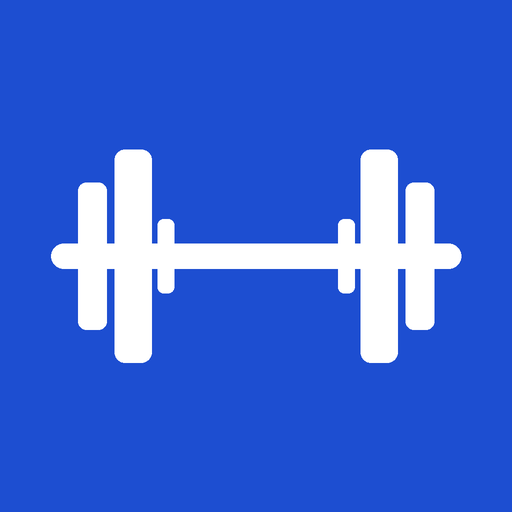
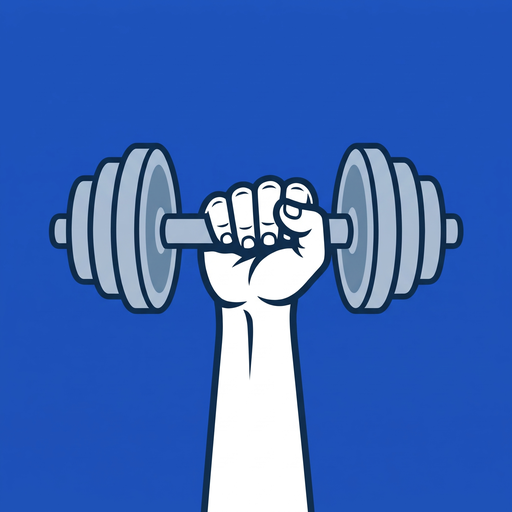
V54
Renaming app GymSmith
Changing icon

diff --git a/index.html b/index.html
@@ -3,7 +3,7 @@
 <head>
 <meta charset="utf-8">
 <meta name="viewport" content="width=device-width, initial-scale=1, viewport-fit=cover">
-<title>GymBook</title>
+<title>GymSmith</title>
 <script>try{var _t=localStorage.getItem('gymbook.theme');if(_t==='light'||_t==='dark')document.documentElement.setAttribute('data-theme',_t);}catch(e){}</script>
 <meta name="description" content="Log workouts, routines, calisthenics and progress. Works offline.">
 <meta name="robots" content="noindex, nofollow">
@@ -11,7 +11,7 @@
 <meta name="theme-color" content="#0E1115" media="(prefers-color-scheme: dark)">
 <meta name="apple-mobile-web-app-capable" content="yes">
 <meta name="mobile-web-app-capable" content="yes">
-<meta name="apple-mobile-web-app-title" content="GymBook">
+<meta name="apple-mobile-web-app-title" content="GymSmith">
 <meta name="apple-mobile-web-app-status-bar-style" content="default">
 <link rel="manifest" href="manifest.webmanifest">
 <link rel="icon" type="image/png" sizes="32x32" href="icons/favicon-32.png">
@@ -693,7 +693,7 @@ table.sess td{padding:8px 4px;border-bottom:1px solid var(--line);vertical-align
 <body>
 <div class="app">
   <header class="top">
-    <div class="brand">Gym<span>Book</span></div>
+    <div class="brand">Gym<span>Smith</span></div>
     <div class="top-r"><div class="sync" id="sync">Loading…</div><a class="gear" href="#settings" aria-label="Settings"><svg viewBox="0 0 24 24" fill="none" stroke="currentColor" stroke-width="2" stroke-linecap="round" stroke-linejoin="round" aria-hidden="true"><circle cx="12" cy="12" r="3"/><path d="M19.4 15a1.65 1.65 0 0 0 .33 1.82l.06.06a2 2 0 1 1-2.83 2.83l-.06-.06a1.65 1.65 0 0 0-1.82-.33 1.65 1.65 0 0 0-1 1.51V21a2 2 0 1 1-4 0v-.09A1.65 1.65 0 0 0 9 19.4a1.65 1.65 0 0 0-1.82.33l-.06.06a2 2 0 1 1-2.83-2.83l.06-.06A1.65 1.65 0 0 0 4.68 15a1.65 1.65 0 0 0-1.51-1H3a2 2 0 1 1 0-4h.09A1.65 1.65 0 0 0 4.6 9a1.65 1.65 0 0 0-.33-1.82l-.06-.06a2 2 0 1 1 2.83-2.83l.06.06A1.65 1.65 0 0 0 9 4.68a1.65 1.65 0 0 0 1-1.51V3a2 2 0 1 1 4 0v.09a1.65 1.65 0 0 0 1 1.51 1.65 1.65 0 0 0 1.82-.33l.06-.06a2 2 0 1 1 2.83 2.83l-.06.06A1.65 1.65 0 0 0 19.4 9a1.65 1.65 0 0 0 1.51 1H21a2 2 0 1 1 0 4h-.09a1.65 1.65 0 0 0-1.51 1z"/></svg></a></div>
   </header>
   <main id="view" class="stack"></main>
@@ -909,7 +909,7 @@ const HYPER_REFS=['vol','freq','fail','load'];
    Each session is done once a week, so weekly sets per target muscle stay roughly 10–20. */
 const PROGRAMS = [
  {id:'kot', cat:'Joints', title:'Knees Over Toes', days:3, weeks:'8–12 weeks', refs:['kotA1'],
-  blurb:'Strong, resilient knees and ankles from Knees Over Toes (ATG) exercises: backward walking, tibialis and soleus work, step-ups and full-range squats and split squats. The exercises come from the method; the session layout is GymBook\'s own.',
+  blurb:'Strong, resilient knees and ankles from Knees Over Toes (ATG) exercises: backward walking, tibialis and soleus work, step-ups and full-range squats and split squats. The exercises come from the method; the session layout is GymSmith\'s own.',
   progress:'Stay in a pain-free range: no worse than about 2–3 out of 10. Earn range before load: use more slant or support, or a raised front foot, until every rep reaches full depth, then lower the support and add reps. Only then add weight (dumbbell or vest). Keep the Jefferson curl very light and build up slowly. Regress Nordics with a band or a shorter range.',
   sessions:[
    {name:'A', rest:60, ex:[['backward-walk',1,10],['tib-raise',3,20],['soleus-raise',3,20],['patrick-step',3,15],['poliquin-step',3,10],['slant-squat',3,15],['couch-stretch',2,45]]},
@@ -1603,7 +1603,7 @@ function preBlock(sk){
 function fullDate(t){ const d=new Date(t); return `${d.getDate()} ${MON[d.getMonth()]} ${d.getFullYear()}`; }
 function sourcesBlock(keys, own){
   const list=(keys||[]).map(k=>REF[k]).filter(Boolean); if(!list.length) return '';
-  return `<details class="sources"><summary>Based on</summary><ul>${list.map(r=>`<li><a href="${esc(r.u)}" target="_blank" rel="noopener">${esc(r.t)}</a><span>${esc(r.n)}</span></li>`).join('')}</ul>${own?`<p>The order of stages follows these sources; the pass marks are GymBook's own, as the sources don't set any.</p>`:''}</details>`;
+  return `<details class="sources"><summary>Based on</summary><ul>${list.map(r=>`<li><a href="${esc(r.u)}" target="_blank" rel="noopener">${esc(r.t)}</a><span>${esc(r.n)}</span></li>`).join('')}</ul>${own?`<p>The order of stages follows these sources; the pass marks are GymSmith's own, as the sources don't set any.</p>`:''}</details>`;
 }
 function skillNeeds(sk){ const miss=new Set(); for(const st of sk.stages){ const ex=exById(st.key); if(ex) missing(ex).forEach(m=>miss.add(m)); } return [...miss]; }
 
@@ -2003,7 +2003,7 @@ function sheetClear(){
   const what=sheet.what||'history'; const age=backupAgeDays();
   return `<p class="muted" style="margin:0;font-size:14px">This can't be undone. Back up first if you might want any of it again.</p>
   <div class="seg seg-wide" role="group" aria-label="What to clear"><button type="button" data-act="clear-what" data-v="history" aria-pressed="${what==='history'}">Workout history</button><button type="button" data-act="clear-what" data-v="all" aria-pressed="${what==='all'}">Everything</button></div>
-  <p style="margin:0;font-size:14px">${what==='all'?'Removes workouts, routines, your own exercises, bodyweight, skill progress and settings. GymBook goes back to a fresh start.':'Removes every logged workout and the workout in progress. Routines, your own exercises, bodyweight, equipment and settings stay.'}</p>
+  <p style="margin:0;font-size:14px">${what==='all'?'Removes workouts, routines, your own exercises, bodyweight, skill progress and settings. GymSmith goes back to a fresh start.':'Removes every logged workout and the workout in progress. Routines, your own exercises, bodyweight, equipment and settings stay.'}</p>
   <div class="card spread nowrap" style="padding:10px 12px"><div style="min-width:0"><b>Back up first</b><div class="muted" style="font-size:13px">${age==null?'<b style="color:var(--warn)">No backup yet.</b>':age===0?'Last backup today.':`Last backup ${age} day${age===1?'':'s'} ago.`}</div></div><button type="button" class="btn" data-act="clear-backup">Back up</button></div>
   <div class="field"><label class="label" for="clear-confirm">Type DELETE to confirm</label><input id="clear-confirm" autocomplete="off" autocapitalize="characters" spellcheck="false"></div>
   <button type="button" class="btn danger-fill big block" data-act="clear-go" id="clear-go" disabled>${what==='all'?'Clear everything':'Clear workout history'}</button>`;
@@ -2026,11 +2026,11 @@ document.addEventListener('input', ev=>{ if(ev.target&&ev.target.id==='clear-con
 
 /* ---------- first-run tour ---------- */
 const TOUR=[
-  {ic:'dumbbell', t:'Welcome to GymBook', b:'Log your workouts, follow routines and programmes, and track your progress. It works without signal and keeps everything on this phone.'},
+  {ic:'dumbbell', t:'Welcome to GymSmith', b:'Log your workouts, follow routines and programmes, and track your progress. It works without signal and keeps everything on this phone.'},
   {ic:'gear', t:'Tell it your equipment', b:'Pick what is in your gym, home setup or bar park. Exercises you can\'t do are hidden, and programmes swap in versions that fit your kit.', act:['equip','Choose equipment']},
   {ic:'list', t:'Routines and programmes', b:'Save your own routines, or add a ready-made programme or calisthenics skill from the Routines tab. Next up on the Workout screen shows what is due.'},
   {ic:'check', t:'Logging a workout', b:'Start a routine, type the weight and reps, and tick each set. Ticking starts the rest timer. Tap How to do it on any calisthenics exercise for form cues.'},
-  {ic:'shield', t:'Keep a backup', b:'Your log lives only on this phone. Back up now and then from Settings (the gear at the top right), and add GymBook to your home screen to use it like an app.'}
+  {ic:'shield', t:'Keep a backup', b:'Your log lives only on this phone. Back up now and then from Settings (the gear at the top right), and add GymSmith to your home screen to use it like an app.'}
 ];
 let tourShown=false;
 function maybeTour(){
@@ -2326,7 +2326,7 @@ function vStart(){
     : (S.loaded.r ? `<p class="note">No routines yet. Make one in the Routines tab to start it in one tap.</p>` : '');
   const last=S.workouts[0]; const nu=vNextUp();
   return `
-  ${isStandalone()?'':`<div class="card download"><div class="dl-txt"><b>Add GymBook to your home screen</b><span>${/iPhone|iPad|iPod/i.test(navigator.userAgent)?"Do this before logging workouts: on iPhone, workouts logged in Safari don't carry over to the app.":'It opens full screen and works with no signal.'}</span></div><button type="button" class="btn primary" data-act="install-help">Install</button></div>`}
+  ${isStandalone()?'':`<div class="card download"><div class="dl-txt"><b>Add GymSmith to your home screen</b><span>${/iPhone|iPad|iPod/i.test(navigator.userAgent)?"Do this before logging workouts: on iPhone, workouts logged in Safari don't carry over to the app.":'It opens full screen and works with no signal.'}</span></div><button type="button" class="btn primary" data-act="install-help">Install</button></div>`}
   <section class="hero-start">
     <div class="card stack">
       <div class="spread"><span class="label">This week</span><span class="muted num" style="font-size:14px">${thisWeek.length} workout${thisWeek.length===1?'':'s'} · ${fmtVol(thisWeek.reduce((a,w)=>a+workoutVolume(w),0))} kg</span></div>
@@ -3030,7 +3030,7 @@ function vPrograms(filter){
   return `<div class="section-h"><h2>Programmes</h2></div>
   <div class="seg seg-wide" role="group" aria-label="Programme type"><button type="button" data-act="prog-kind" data-v="goals" aria-pressed="${kind!=='skills'}">By goal</button><button type="button" data-act="prog-kind" data-v="skills" aria-pressed="${kind==='skills'}">Calisthenics skills</button></div>
   <!--chips-->
-  ${kind==='skills'?tip('skills','Pick your stage and GymBook builds the session, then tells you when to move on.'):tip('goals','Ready-made routines, adjusted to your equipment. Add one, then edit anything.')}
+  ${kind==='skills'?tip('skills','Pick your stage and GymSmith builds the session, then tells you when to move on.'):tip('goals','Ready-made routines, adjusted to your equipment. Add one, then edit anything.')}
   ${body}`;
 }
 function vSettings(){
@@ -3060,15 +3060,15 @@ function vSettings(){
     <div><b>Backups</b><div class="muted" style="font-size:13px">Your log lives on this phone. A backup file keeps it safe if you change phone, delete the app or clear your browser data. ${backupAge()==null?'<b style="color:var(--warn)">No backup yet.</b>':`Last backup ${backupAge()===0?'today':backupAge()===1?'yesterday':backupAge()+' days ago'}.`}</div></div>
     <div class="btn-grid"><button type="button" class="btn primary" data-act="export-json">Back up now</button><button type="button" class="btn" data-act="import">Import backup</button><button type="button" class="btn span2" data-act="export-csv">Spreadsheet (CSV)</button></div>
   </div>
-  <div class="card spread nowrap"><div style="min-width:0"><b>Add to home screen</b><div class="muted" style="font-size:13px">${isStandalone()?'Installed. You are using GymBook as an app.':'Open GymBook like an app, full screen and offline.'}</div></div>${isStandalone()?'':`<button type="button" class="btn" data-act="install-help">How</button>`}</div>
-  <div class="card spread nowrap"><div style="min-width:0"><b>App tour</b><div class="muted" style="font-size:13px">A quick look at how GymBook works</div></div><button type="button" class="btn" data-act="tour-open">Show</button></div>
+  <div class="card spread nowrap"><div style="min-width:0"><b>Add to home screen</b><div class="muted" style="font-size:13px">${isStandalone()?'Installed. You are using GymSmith as an app.':'Open GymSmith like an app, full screen and offline.'}</div></div>${isStandalone()?'':`<button type="button" class="btn" data-act="install-help">How</button>`}</div>
+  <div class="card spread nowrap"><div style="min-width:0"><b>App tour</b><div class="muted" style="font-size:13px">A quick look at how GymSmith works</div></div><button type="button" class="btn" data-act="tour-open">Show</button></div>
   <div class="card spread nowrap"><div style="min-width:0"><b>Clear data</b><div class="muted" style="font-size:13px">Remove workout history, or everything, from this phone</div></div><button type="button" class="btn danger" data-act="clear-open">Clear…</button></div>
   <p class="note">Everything is saved on this phone and works without signal. Nothing is sent anywhere.</p>
-  <p class="muted num" style="margin:0;font-size:12px;text-align:center">GymBook version ${APP_VERSION}</p>`;
+  <p class="muted num" style="margin:0;font-size:12px;text-align:center">GymSmith version ${APP_VERSION}</p>`;
 }
 if(!S.rtOpen) S.rtOpen=new Set();
 /* keep in step with VERSION in sw.js, so you can see which version is running */
-const APP_VERSION=53;
+const APP_VERSION=54;
 function vRoutines(){
   const rest=S.settings.rest||90;
   const card=r=>{ const open=S.rtOpen.has(r.id); return `<div class="card rt ${open?'open':''}">
@@ -3126,7 +3126,7 @@ function renderSheet(){
   const keepQ = document.getElementById('pick-q'); const q = keepQ? keepQ.value : (sheet.q||'');
   const oldB=root.querySelector('.sheet-b'); const keepTop = oldB && root.dataset.kind===sheet.kind+(sheet.id||'') ? oldB.scrollTop : 0;
   root.dataset.kind=sheet.kind+(sheet.id||'');
-  root.innerHTML=`<div class="scrim" data-act="scrim"><div class="sheet ${sheet.kind==='tour'?'sheet-tour':''}" role="dialog" aria-modal="true" aria-label="${esc(title||'GymBook tour')}">
+  root.innerHTML=`<div class="scrim" data-act="scrim"><div class="sheet ${sheet.kind==='tour'?'sheet-tour':''}" role="dialog" aria-modal="true" aria-label="${esc(title||'GymSmith tour')}">
     <div class="sheet-h"><h2>${esc(title)}</h2><button type="button" class="icon-btn" data-act="close" aria-label="Close">${ICON.x}</button></div>
     <div class="sheet-b">${body}</div></div></div>`;
   if(keepTop){ const nb=root.querySelector('.sheet-b'); if(nb) nb.scrollTop=keepTop; }
@@ -3238,10 +3238,10 @@ function sheetBwAll(){
 function isStandalone(){ return (window.matchMedia&&matchMedia('(display-mode: standalone)').matches) || navigator.standalone===true; }
 function sheetInstall(){
   const ios=/iPhone|iPad|iPod/i.test(navigator.userAgent);
-  return `${installPrompt?`<button type="button" class="btn primary block" data-act="install-now">Install GymBook</button>`:''}
+  return `${installPrompt?`<button type="button" class="btn primary block" data-act="install-now">Install GymSmith</button>`:''}
   <div class="stack" style="gap:6px"><b>iPhone</b><ol class="steps"><li>Open this page in <b>Safari</b>.</li><li>Tap the <b>Share</b> button (square with an arrow).</li><li>Scroll down and tap <b>Add to Home Screen</b>, then <b>Add</b>.</li></ol></div>
   <div class="stack" style="gap:6px"><b>Android</b><ol class="steps"><li>Open this page in <b>Chrome</b>.</li><li>Tap the <b>⋮</b> menu.</li><li>Tap <b>Install app</b> (or <b>Add to Home screen</b>).</li></ol></div>
-  <p class="note">${ios?'On iPhone, use the home-screen icon from now on: its data is kept separately from Safari tabs. Import your backup there.':'After installing, open GymBook from its icon.'}</p>`;
+  <p class="note">${ios?'On iPhone, use the home-screen icon from now on: its data is kept separately from Safari tabs. Import your backup there.':'After installing, open GymSmith from its icon.'}</p>`;
 }
 function sheetExport(){
   return `<p class="muted" style="margin:0;font-size:14px">Downloads aren't available in this view, so here is <b>${esc(sheet.name)}</b> as text. Copy it and paste it into a file or a spreadsheet.</p>
@@ -3578,15 +3578,15 @@ async function offerFile(name, data){
     setTimeout(()=>URL.revokeObjectURL(url), 5000); toast('Download started'); return true;
   }catch(e){ openSheet({kind:'export', name, data}); return false; }
 }
-function backupJson(){ return JSON.stringify({app:'GymBook', version:1, exported:new Date().toISOString(), workouts:S.workouts, routines:S.routines, bodyweight:S.bw, customExercises:S.custom, settings:S.settings}, null, 2); }
+function backupJson(){ return JSON.stringify({app:'GymSmith', version:1, exported:new Date().toISOString(), workouts:S.workouts, routines:S.routines, bodyweight:S.bw, customExercises:S.custom, settings:S.settings}, null, 2); }
 async function doBackup(){
-  const ok=await offerFile(`gymbook-backup-${todayISO()}.json`, backupJson());
+  const ok=await offerFile(`gymsmith-backup-${todayISO()}.json`, backupJson());
   if(ok){ S.settings.lastBackup=Date.now(); putSettings(); render(); }
 }
 /* ---------- import a backup (from the Claude version or this app) ---------- */
 function importBackup(text){
-  let d; try{ d=JSON.parse(text); }catch(e){ toast("That file isn't a GymBook backup."); return; }
-  if(!d || typeof d!=='object' || !(Array.isArray(d.workouts)||Array.isArray(d.routines))){ toast("That file isn't a GymBook backup."); return; }
+  let d; try{ d=JSON.parse(text); }catch(e){ toast("That file isn't a GymSmith backup."); return; }
+  if(!d || typeof d!=='object' || !(Array.isArray(d.workouts)||Array.isArray(d.routines))){ toast("That file isn't a GymSmith backup."); return; }
   const merge=(cur, inc, key)=>{ const map=new Map(cur.map(x=>[x[key],x])); let n=0; for(const x of (inc||[])){ if(x&&x[key]!=null){ if(!map.has(x[key])) n++; map.set(x[key], x); } } return [[...map.values()], n]; };
   let n1,n2,n3;
   [S.workouts,n1]=merge(S.workouts, (d.workouts||[]).filter(w=>w&&w.id&&isFinite(w.startedAt)), 'id');
@@ -3768,7 +3768,7 @@ document.addEventListener('click', async ev=>{
     case 'rt-ss-leave': unlink(sheet.r.exercises, +b.closest('.rt-ex').dataset.i); renderSheet(); break;
     case 'bw-all': openSheet({kind:'bw-all'}); break;
     case 'bw-del': { if(!armed(b,'Delete?')) break; await delBw(b.dataset.id); renderSheet(); render(); break; }
-    case 'export-csv': { if(!S.workouts.length){ toast('No workouts to export yet.'); break; } await offerFile(`gymbook-${todayISO()}.csv`, buildCsv()); break; }
+    case 'export-csv': { if(!S.workouts.length){ toast('No workouts to export yet.'); break; } await offerFile(`gymsmith-${todayISO()}.csv`, buildCsv()); break; }
     case 'export-json': await doBackup(); break;
     case 'import': pickImport(); break;
     case 'starters': addStarters(); break;
@@ -3910,7 +3910,7 @@ document.addEventListener('change', ev=>{
   if(ev.target.id!=='import-file') return; const f=ev.target.files&&ev.target.files[0]; ev.target.value='';
   if(!f) return; const rd=new FileReader(); rd.onload=()=>importBackup(String(rd.result)); rd.onerror=()=>toast("Couldn't read that file."); rd.readAsText(f);
 });
-function showUpdate(){ const r=document.getElementById('update-root'); r.innerHTML=`<div class="toast update" role="status"><span>A new version of GymBook is ready.</span><button type="button" class="btn" data-act="sw-reload">Reload</button></div>`; }
+function showUpdate(){ const r=document.getElementById('update-root'); r.innerHTML=`<div class="toast update" role="status"><span>A new version of GymSmith is ready.</span><button type="button" class="btn" data-act="sw-reload">Reload</button></div>`; }
 if('serviceWorker' in navigator && location.protocol!=='file:'){
   window.addEventListener('load', ()=>{
     navigator.serviceWorker.register('sw.js').then(reg=>{
@@ -3918,7 +3918,7 @@ if('serviceWorker' in navigator && location.protocol!=='file:'){
       reg.addEventListener('updatefound', ()=>{ const nw=reg.installing; if(!nw) return;
         nw.addEventListener('statechange', ()=>{ if(nw.state==='installed' && navigator.serviceWorker.controller){ swWaiting=nw; showUpdate(); } }); });
       setInterval(()=>reg.update().catch(()=>{}), 60*60*1000);
-      /* iPhone home-screen apps usually resume rather than reload, so also check for updates each time GymBook comes back on screen */
+      /* iPhone home-screen apps usually resume rather than reload, so also check for updates each time GymSmith comes back on screen */
       let lastCheck=Date.now();
       document.addEventListener('visibilitychange', ()=>{ if(document.visibilityState==='visible' && Date.now()-lastCheck>30000){ lastCheck=Date.now(); reg.update().catch(()=>{}); } });
     }).catch(e=>console.warn('Offline support unavailable', e));

diff --git a/sw.js b/sw.js
@@ -1,6 +1,6 @@
 /* GymBook service worker: keeps the app working with no signal.
    Bump VERSION whenever you upload changed files, so phones pick up the update. */
-const VERSION = 'gymbook-v53';
+const VERSION = 'gymbook-v54';
 const SHELL = [
   './',
   './index.html',
